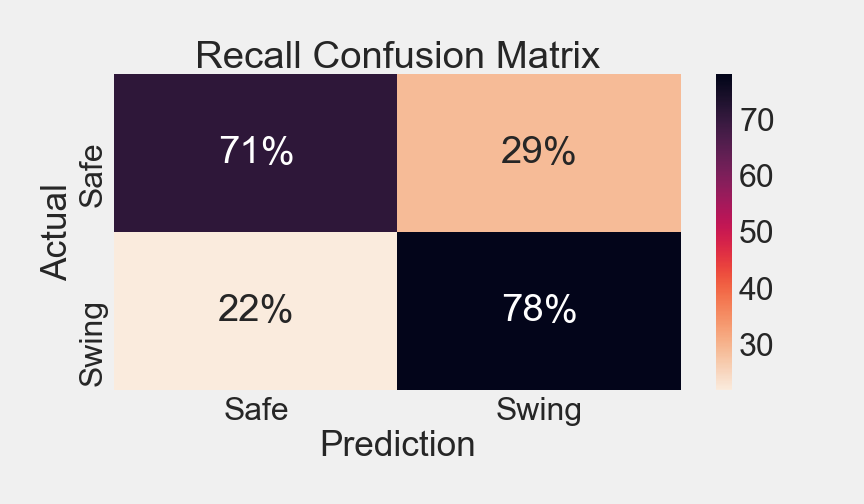
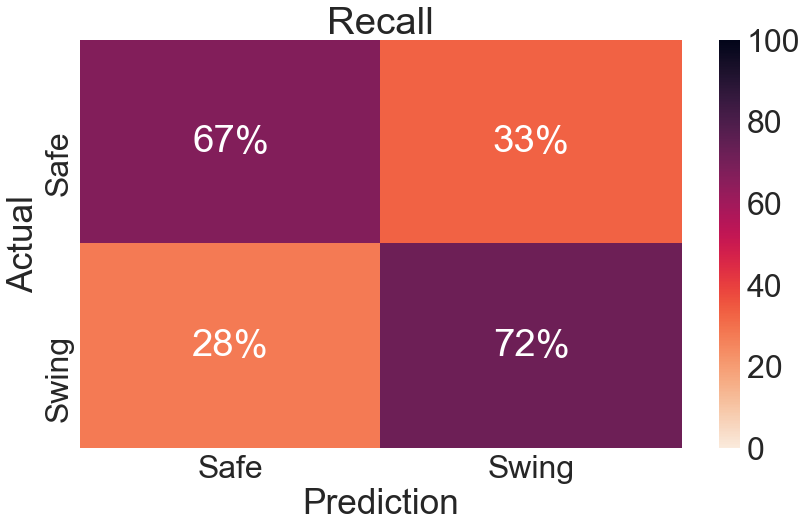
election blog

diff --git a/_posts/2018-05-19-batt_ground.md b/_posts/2018-05-19-batt_ground.md
@@ -8,50 +8,89 @@ title: Battleground Counties in the 2016 Election
 Our nation is divided. There is a bitter split among voters between our two major political parties. As time marches forward, it seems the rift between these two sides only deepens throughout the country. An election's outcome may come down to a set of particular voters in a handful of counties. Can characteristics of these voters be identified? Practically, this information could be used to shed light on which voters political campaigns should target to tip the balance in a tight election. More generally, insight may be gained into the attributes of the ever-shrinking segment of our population that is not politically entrenched.
 
 ## Summary
-In this analysis, the results of the 2016 election were examined at the county level. County demographic data was used to determine if any trends were apparent for the most undecided counties.
+In this analysis, the results of the 2016 election were examined at the county level. Classification models were developed to determine what county demographic trends were indicative of the most undecided counties.
 
-### Data
-A total of 3,142 counties were examined for the analysis and demographic data was retrieved from the American Community Survey. For the purposes of this analysis, a "swing" county was defined as a county with an election result with a 5% or lower margin of victory. For example, a county with 52% of the vote going to Donald Trump (R) and 47% going to Hilary Clinton (D) would be considered a swing county. Thirteen features were investigated for correlation with a swing county. Election results were based on data from the New York Times.
+## Data
+All voting counties in the US and the District of Columbia (a total of 3,142) were examined for this project. Demographic data was retrieved from the American Community Survey and election results were based on data from the New York Times. For the purposes of this analysis, a "swing" county was defined as a county with an election result with a 5% or lower margin of victory. For example, a county with 52% of the vote going to Donald Trump (R) and 47% going to Hilary Clinton (D) would be considered a swing county. Fourteen features were investigated for correlation with a swing county prediction.
 
-### Modeling
+As a visual overview, the fourteen features were decompressed into two for principle component analysis. There is no region in the plot which is exclusive to "swing" county observations. They tend to be somewhat clustered in the middle along with many "safe" county observations.
+
+![]({{ "/assets/images/batt_ground/pca.png" | absolute_url }})
+
+## Modeling
 Supervised machine learning methods were employed using binary classification. Counties were classified as either "swing" (positive class) or "safe" (negative class). One of the major challenges of this project was a significant class imbalance - the vast majority (95%) of counties fell into the "safe" class. Due to this imbalance, an overall accuracy of 95% could be achieved by a model that simply classified all counties as "safe"! Obviously to tell us anything useful, this analysis requires a model based on other metrics such as precision or recall.
 
 ![]({{ "/assets/images/batt_ground/cls_rep.png" | absolute_url }})
 
-The goal of the analysis was to gather insight into the characteristics of "swing" counties. This lead to using two approaches for modeling:
-1. Recall was prioritized over precision. This yielded fewer false negatives but resulted in the trade-off of increased false positives.
+The goal of the analysis was to gather insight into the characteristics of "swing" counties. This lead to two approaches for modeling:
+1. Recall was prioritized over precision. This resulted in fewer false negatives but resulted in the trade-off of increased false positives.
 2. Logistic Regression and Random Forest models were selected since they both provide insight into feature impacts on outcomes.
 
-Initial models resulted in 0% recall as a direct result of the severe class imbalance! Fortunately, methods are available to boost recall performance:
+Initial models resulted in very low recall as a direct result of the severe class imbalance. Fortunately, methods were available to boost recall performance:
 1. Balanced weights can be used as an input parameter when initializing each model. This method modifies the "weights" of the two classes in the model algorithm's cost function in order to place greater importance on the "swing" class. Balanced weights are inversely proportional to the frequency of class observations.
 2. Synthetic Minority Over-sampling Technique (SMOTE) is an oversampling method that generates synthetic samples of the "swing" class. The oversampling is applied to the data before initializing each model.  
 
-All Logistic Regression and Random Forest models were tuned using input parameters that lead to optimal model performance.
-
-### Results
-
-The bar plot below shows the recall performance for the three different Logistic Regression and Random Forest models. Note the recall values for the initial models weren't mistakenly left out of the plot - they were both zero!
+All Logistic Regression and Random Forest models were tuned using input parameters that lead to optimal model performance. The bar plot below shows the recall performance for the three different Logistic Regression and Random Forest models. Note the recall value for the initial Logistic Regression model wasn't mistakenly left out of the plot - it was zero!
 
 ![]({{ "/assets/images/batt_ground/recall.png" | absolute_url }})
 
-The best Logistic Regression model used balanced weights and the best Random Forest model utilized SMOTE. These two models were compared with each other to determine the final model to be used for the analysis. A typical metric of classification is the ROC Curve. However in cases of severe imbalance, the Precision-Recall Curve is a better metric of model performance. A tug-of-war between precision (rate based on false positives) and recall (rate based on false negatives) can be observed in the plot below. Even with optimized models, precision is low even with low recall but generally continues to decline as more true positives are identified by the model. In other words, as more "swing" counties are correctly identified by each model, the number of "safe" counties incorrectly identified as "swing" increases. The model is less selective for determining the positive case.
+The best Logistic Regression model used balanced weights and the best Random Forest model utilized SMOTE. These two models were compared with each other to determine the final model to be used for the analysis.
 
-![]({{ "/assets/images/batt_ground/pre_rec.png" | absolute_url }})
-
-Random Forest outperformed Logistic Regression in terms of Precision-Recall trade-off. However, overall recall was significantly better with the Logistic Regression model as shown below and this model was selected for final analysis.
+### Model Comparison
+In the next few graphs, we've got a different "red vs blue" contest going on - the optimized Logistic Regression and Random Forest are compared for various metrics. The plot below shows the recall scores and Logistic Regression is far and away the winner here.
 
 ![]({{ "/assets/images/batt_ground/brecall.png" | absolute_url }})
 
-The heat map below shows the confusion matrix of the final model. 78% of the "swing" counties were correctly identified using this model. Quite an improvement from the initial 0%.
+As previously stated, the recall score is being prioritized in this project but other metrics were compared as well. Below is the ROC curve which compares the true positive rate to the false positive rate. Based on this plot, both models appear to have good performance since they trend toward the desirable upper left quadrant. However when comparing the area under the curve (AUC), Random Forest beats Logistic Regression.
+
+![]({{ "/assets/images/batt_ground/roc.png" | absolute_url }})
+
+The ROC curve and AUC value are typical classification metrics. However both axes of the plot (true positive rate and false positive rate) do not reflect class imbalances so this is not a suitable metric for this analysis.
+
+A better metric is the Precision-Recall Curve. A tug-of-war between precision (rate based on false positives) and recall (rate based on false negatives) can be observed for both models in the plot below. Precision generally declines as more true positives are identified by each model and recall increases. As more "swing" counties are correctly identified by each model, the number of "safe" counties incorrectly identified as "swing" increases. In other words, the model becomes less selective for determining the positive case.
+
+![]({{ "/assets/images/batt_ground/pre_rec.png" | absolute_url }})
+
+Random Forest outperformed Logistic Regression in terms of Precision-Recall trade-off. However as overall recall was significantly better with the Logistic Regression model, it was selected for final analysis.
+
+## Results
+The heat map below shows the confusion matrix (as percentages) of the final Logistic Regression model. 72% of the "swing" counties were correctly identified using this model. Quite an improvement from the initial 0%.
 
 ![]({{ "/assets/images/batt_ground/conf_mat.png" | absolute_url }})
 
-By default, binary classification models predict an observation to be in the positive class if the algorithm outputs a probability greater than 50% that the observation is in the positive class. If desired, this decision threshold can be lowered to increase positive class prediction. This will further increase recall and decrease precision performance. In some cases, the trade-off may be worth it. Perhaps a well-funded political campaign is in the final few weeks of an extremely tight race and is willing to commit additional resources. It may be worth knocking on doors in every county that could possibly be swayed. With this in mind, the final Logistic Regression model can be modified by lowering the decision threshold to 39% and all "swing" counties in the 2016 election are correctly identified. Below, is a heat map showing the confusion matrix of the model with the modified threshold.
+By default, binary classification models predict an observation to be in the positive class if the algorithm outputs a probability greater than 50% that the observation is in the positive class. If desired, this decision threshold can be lowered to increase positive class prediction. This will further increase recall and decrease precision performance. In some cases, the trade-off may be worth it. Perhaps a well-funded political campaign is in the final few weeks of an extremely tight race and is willing to commit additional resources. It may be worth knocking on doors in every county that could possibly be swayed. With this in mind, the final Logistic Regression model can be modified by lowering the decision threshold to 35% and all "swing" counties in the 2016 election are correctly identified. Below, is a heat map showing the confusion matrix of the model with the modified threshold.
 
 ![]({{ "/assets/images/batt_ground/thr_conf_mat.png" | absolute_url }})
 
-### Conclusions
+Note the significant increase in false positives (upper right) with the lower threshold.
 
-With the final model selected, features leading to a "swing" county prediction can be analyzed. The bar graph below shows the positive and negative weights which contribute to identification as a "swing" county. Note that, after tuning, only four of the thirteen features impacted the model. As indicated below, "swing" counties tend to have residents with a higher college degree rate, a lower white population, slightly lower income and slightly lower median age. In general, these demographics trend toward Democratic voters. Perhaps this indicates that in the 2016 election, Donald Trump had an advantage since counties with these particular demographics were in play.
+### Model Interpretation
+With the final model selected, features correlating with a "swing" county prediction can be analyzed. The bar graph below shows the positive and negative weights which contribute to identification as a "swing" county. For this task, I took advantage of the same feature weight sorting function developed in my independent film linear regression project - [Forecasting Indie Film Performance](https://kevscon.github.io/2018/04/29/indie_films.html). "Swing" counties tend to have residents with a higher college degree rate, a lower white population and a slightly higher number of households.
 
-![]({{ "/assets/images/batt_ground/lr_feat.png" | absolute_url }})
+![]({{ "/assets/images/batt_ground/log_feat.png" | absolute_url }})
+
+Note that, after tuning, only three of the fourteen features impacted the model. The optimal Logistic Regression model utilized L1 regularization which has the ability to completely zero out features.
+
+## Conclusions
+
+ In general, the demographics identified in the model interpretation typically trend toward Democratic voters. Perhaps this analysis indicates that in the 2016 election, Donald Trump had an advantage since counties with Democratic-leaning demographics were up for grabs by either candidate.
+
+ Below is a table of four swing counties of interest as well as the county average for the nation. These are swing counties in pivotal swing states that helped determine the outcome of the 2016 election. All four counties have above average college degree holding residents. Half of the counties have a below average white population and three of the four have an above average number of households.
+
+![]({{ "/assets/images/batt_ground/swingers.png" | absolute_url }})
+
+Isabella and Kent counties in Michigan are circled in the map below.
+
+![]({{ "/assets/images/batt_ground/MI_map.png" | absolute_url }})
+*Source: New York Times*
+
+Kenosha and Racine counties in Wisconsin are circled in the map below.
+
+![]({{ "/assets/images/batt_ground/WI_map.png" | absolute_url }})
+*Source: New York Times*
+
+As indicated by the pale red tint in the maps above, these four counties went for Trump but just barely. While the election was not close in terms of electoral votes, increased Democratic turnout in just a few counties similar to these could have tipped the balance in a handful of swing states and lead to a very different electoral outcome.
+
+Jupyter notebooks of my data processing and classification modeling for this project can be found here:
+
+[Battle Ground Counties Github repository](https://github.com/kevscon/battle-counties)

diff --git a/_posts/2018-04-29-indie_films.md b/_posts/2018-04-29-indie_films.md
@@ -128,8 +128,8 @@ While the model could not give a high level of accurate revenue prediction, it d
 
 When inspecting the features of the top grossing independent movies in the dataset, the patterns indicated by the model can be clearly identified. The top five movies are from the Twilight and Hunger Games series. The Twilight series are PG-13 romance films released in November with above average budgets and days in theaters. The Hunger Games series are PG-13 films with a long run in theaters and hefty budgets. Here's a table of the top film features and the average for the dataset:
 
-![]({{ "/assets/images/ind_film/top_5.png" | absolute_url }})
+![]({{ "/assets/images/ind_film/top_five.png" | absolute_url }})
 
-Jupyter notebooks of my data processing and regression modeling can be found here:
+Jupyter notebooks of my data processing and regression modeling for this project can be found here:
 
 [Indie Film Github repository](https://github.com/kevscon/indie-films)
